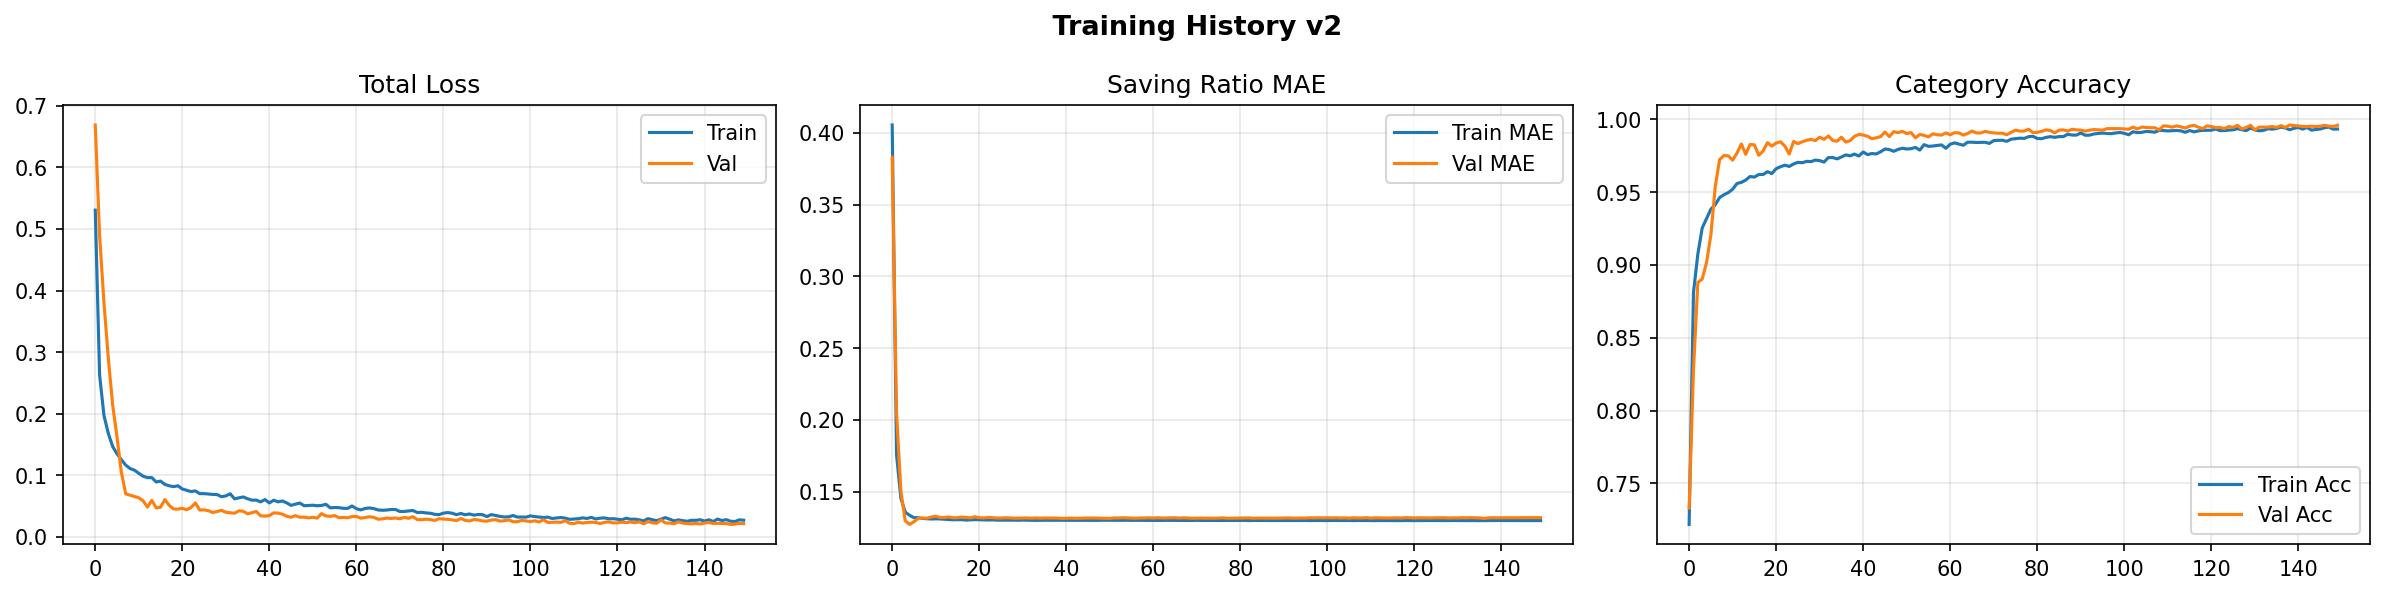
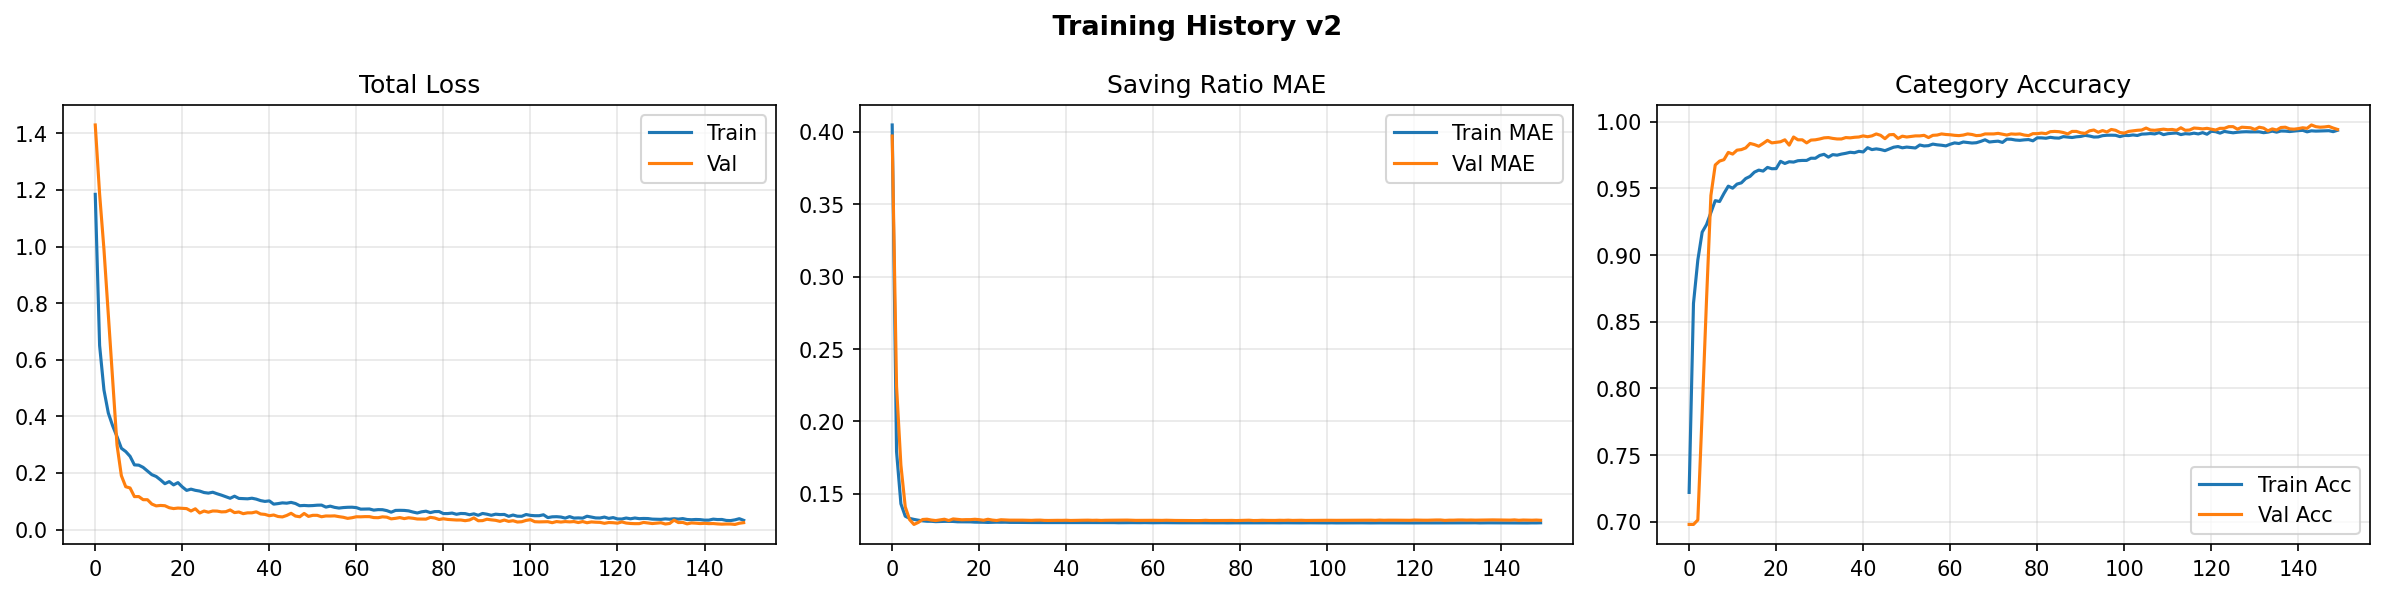
update train and main with save model.h5

diff --git a/check_version.py b/check_version.py
@@ -1,0 +1,5 @@
+import tensorflow as tf
+print(tf.__version__)
+
+from tensorflow import keras
+print(keras.__version__)

diff --git a/main.py b/main.py
@@ -74,7 +74,7 @@ model, scaler = None, None
 print("STARTING MODEL LOAD")
 
 try:
-    model_path = 'best_robo_advisor_v2.keras'
+    model_path = 'model.h5'
     
     # Keras 3 membutuhkan ini agar bisa membaca model format baru
     model = tf.keras.models.load_model(

diff --git a/train.py b/train.py
@@ -438,6 +438,8 @@ history = model.fit(
     callbacks=callbacks,
     verbose=0
 )
+model.save("model.h5")
+print("✅ Model berhasil disimpan sebagai model.h5")
 
 # Training curves
 fig, axes = plt.subplots(1, 3, figsize=(16, 4))